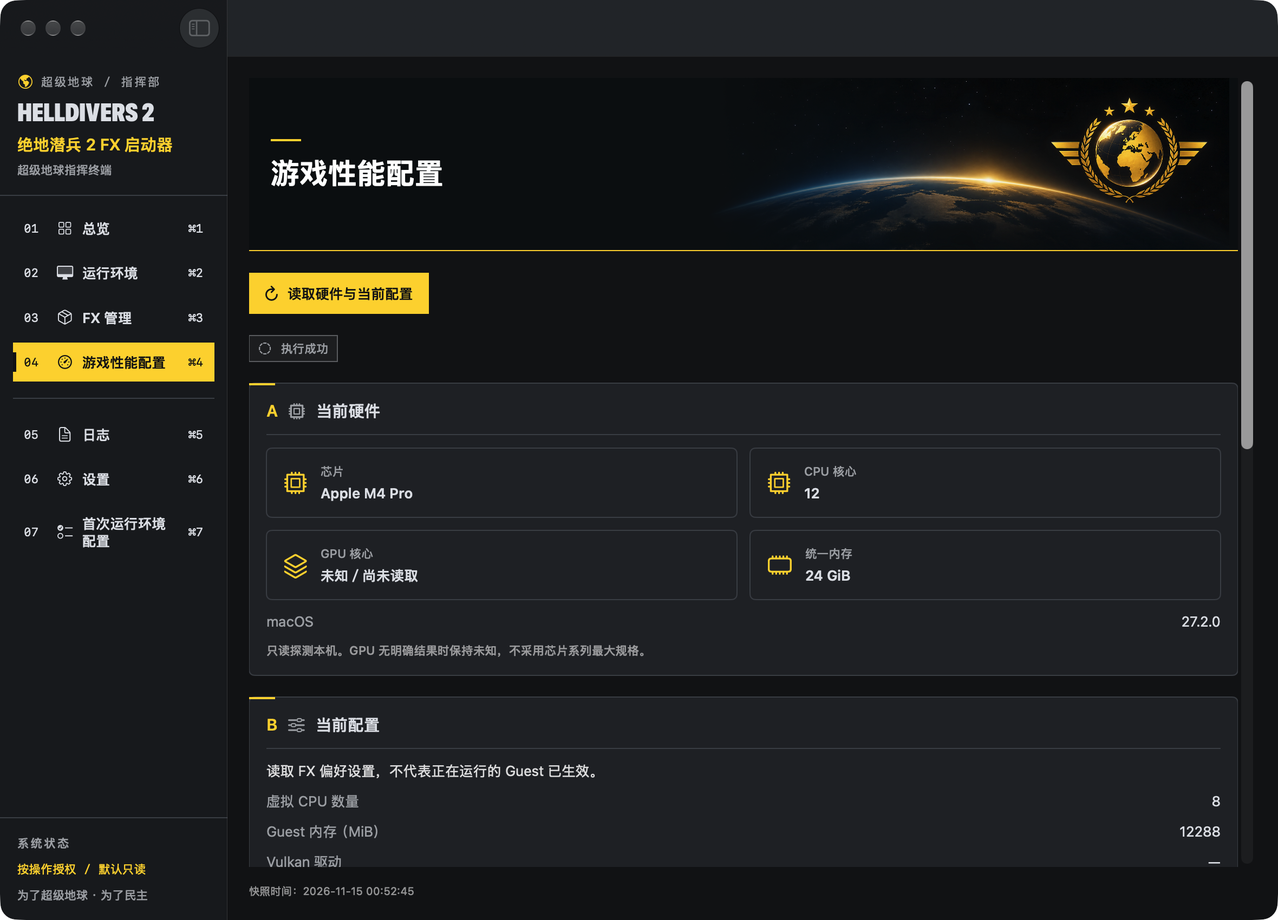
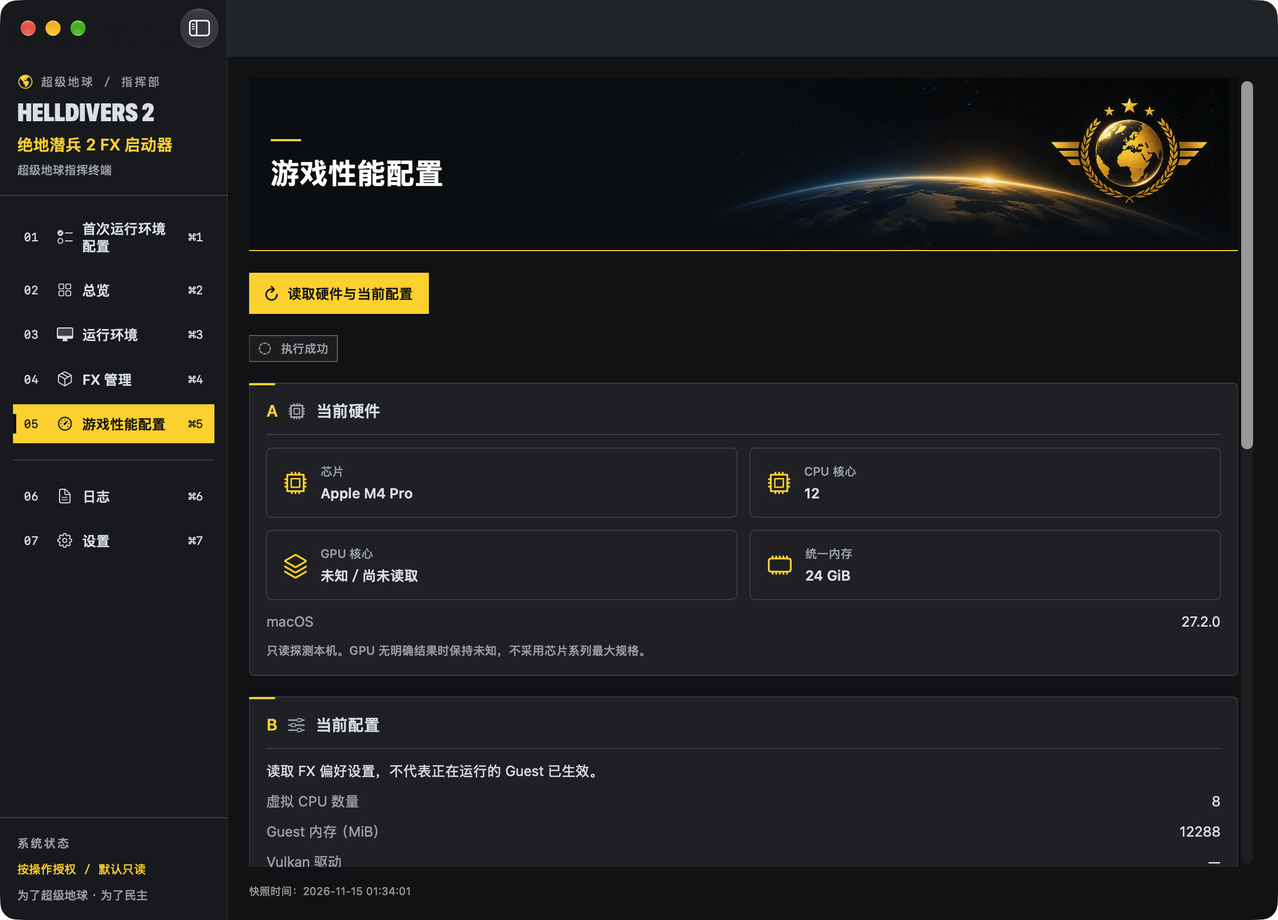
ui: redesign tactical workflows and reorder navigation

Changed region(s): [[0.0, 0.2182, 0.1856, 0.5924], [0.0309, 0.0, 0.0619, 0.0624]]

diff --git a/native-app/Views/FirstRunSetupView.swift b/native-app/Views/FirstRunSetupView.swift
@@ -4,6 +4,7 @@ struct FirstRunSetupView: View {
     @ObservedObject var state: AppState
     @ObservedObject var tasks: TaskManager
     @ObservedObject var credentials: SessionCredentialManager
+    @Environment(\.colorScheme) private var scheme
     @State private var authorize = false
     @State private var fexAction: String?
     @State private var recoverID: UUID?
@@ -49,54 +50,66 @@ struct FirstRunSetupView: View {
         return state.firstRunState == .NotChecked ? "ui.workflow.idle" : "ui.setup.state." + state.firstRunState.rawValue
     }
     private var welcomeContent: some View {
-        VStack(alignment: .leading, spacing: 20) {
+        VStack(alignment: .leading, spacing: 16) {
             TacticalFlowMark()
-            Text(state.t("ui.art.welcomeTitle")).font(.system(size: 25, weight: .bold))
-            Text(state.t("ui.art.welcomeDetail")).foregroundStyle(.secondary)
-            TacticalPanel(number: "", title: state.t("ui.workflow.environment"), symbol: "checkmark.shield") {
-                TacticalInfoRow(title: "FX", value: state.t(state.fxSelection.selected != nil ? "ui.219" : "ui.210"))
-                TacticalInfoRow(title: "SteamOS", value: state.t(state.credentials.guestBoot != nil ? "ui.credentials.status.connected" : "ui.credentials.status.idle"))
-                TacticalInfoRow(title: state.t("ui.135"), value: state.t(setupStatusKey))
-            }
-            TacticalPanel(number: "", title: state.t("ui.workflow.configure"), symbol: "wrench.and.screwdriver") {
+            Text(state.t("ui.art.welcomeTitle"))
+                .font(.system(size: 29, weight: .heavy)).fixedSize(horizontal: false, vertical: true)
+            Text(state.t("ui.art.welcomeDetail")).font(.body).foregroundStyle(.secondary)
+                .fixedSize(horizontal: false, vertical: true)
+            HStack(alignment: .center, spacing: 12) {
+                Image(systemName: "checkmark.shield").font(.title2).foregroundStyle(TacticalColors(scheme: scheme).accent).accessibilityHidden(true)
+                VStack(alignment: .leading, spacing: 5) {
+                    Text(state.t("ui.workflow.environment")).font(.headline)
+                    VStack(alignment: .leading, spacing: 3) {
+                        HStack(alignment: .top) { Text(verbatim: "FX"); Text(state.t(state.fxSelection.selected != nil ? "ui.219" : "ui.210")) }
+                        HStack(alignment: .top) { Text(verbatim: "SteamOS"); Text(state.t(state.credentials.guestBoot != nil ? "ui.credentials.status.connected" : "ui.credentials.status.idle")) }
+                    }.font(.caption).foregroundStyle(.secondary).fixedSize(horizontal: false, vertical: true)
+                    Text(state.t(setupStatusKey)).font(.caption).foregroundStyle(.secondary)
+                }
+            }.padding(.vertical, 4)
+            VStack(alignment: .leading, spacing: 0) {
+                Text(state.t("ui.workflow.configure")).font(.headline).padding(.bottom, 8)
                 TacticalFlowStep(number: "01", title: state.t("ui.setup.fx"), symbol: "shippingbox")
                 TacticalFlowStep(number: "02", title: state.t("ui.setup.detect"), symbol: "magnifyingglass")
                 TacticalFlowStep(number: "03", title: state.t("ui.setup.deploy"), symbol: "wrench.and.screwdriver")
                 TacticalFlowStep(number: "04", title: state.t("ui.workflow.result"), symbol: "checkmark.shield")
-                TacticalButton(title: state.t("ui.workflow.begin"), symbol: "play.fill", primary: true, disabledReason: tasks.busy ? state.t("ui.014") : nil, fillsWidth: true) {
-                    state.startEnvironmentWorkflow(launchGame: false)
-                }
             }
-            TacticalFlowMark()
+            TacticalButton(title: state.t("ui.workflow.begin"), symbol: "play.fill", primary: true, disabledReason: tasks.busy ? state.t("ui.014") : nil, fillsWidth: true) {
+                state.startEnvironmentWorkflow(launchGame: false)
+            }
             EnvironmentWorkflowProgressView(state: state, tasks: tasks)
+            TacticalFlowFooter()
         }
     }
     private func completionContent(_ plan: DeploymentPlan) -> some View {
-        VStack(alignment: .leading, spacing: 20) {
+        VStack(alignment: .leading, spacing: 16) {
             TacticalFlowMark()
-            Text(state.t("ui.art.completedTitle")).font(TacticalTypography.module)
-            Text(state.t("ui.setup.acceptance")).foregroundStyle(.secondary)
-            TacticalPanel(number: "", title: state.t("ui.workflow.environment"), symbol: "checkmark.shield") {
-                ForEach(plan.operations) { operation in
-                    TacticalInfoRow(title: state.t("ui.setup.component." + operation.component), value: state.t(statusKey(operation)))
+            HStack(alignment: .center, spacing: 16) {
+                Image(systemName: "checkmark.seal.fill").font(.system(size: 48)).foregroundStyle(TacticalColors(scheme: scheme).accent).accessibilityHidden(true)
+                Text(state.t("ui.art.completedTitle")).font(.system(size: 27, weight: .heavy))
+                    .fixedSize(horizontal: false, vertical: true)
+            }
+            Text(state.t("ui.setup.acceptance")).foregroundStyle(.secondary).fixedSize(horizontal: false, vertical: true)
+            VStack(alignment: .leading, spacing: 0) {
+                Text(state.t("ui.workflow.environment")).font(.headline).padding(.bottom, 9)
+                ForEach(Array(plan.operations.enumerated()), id: \.element.id) { index, operation in
+                    HStack(spacing: 10) {
+                        Text(String(format: "%02d", index + 1)).font(TacticalTypography.log).foregroundStyle(TacticalColors(scheme: scheme).accent).accessibilityHidden(true)
+                        Text(state.t("ui.setup.component." + operation.component)).fixedSize(horizontal: false, vertical: true)
+                        Spacer(minLength: 8)
+                        Text(state.t(statusKey(operation))).font(.caption.weight(.semibold)).multilineTextAlignment(.trailing)
+                    }.padding(.vertical, 7)
+                    TacticalDivider()
                 }
             }
-            ViewThatFits(in: .horizontal) {
-                HStack(spacing: 10) { completionActions }
-                VStack(alignment: .leading, spacing: 10) { completionActions }
-            }
-            TacticalFlowMark()
-        }
-    }
-    private var completionActions: some View {
-        Group {
-            TacticalButton(title: state.t("ui.176"), symbol: "play.fill", primary: true, disabledReason: tasks.busy ? state.t("ui.014") : nil) {
+            TacticalButton(title: state.t("ui.176"), symbol: "play.fill", primary: true, disabledReason: tasks.busy ? state.t("ui.014") : nil, fillsWidth: true) {
                 state.selection = .dashboard
                 state.perform(.game)
             }
             TacticalButton(title: state.t("ui.workflow.retry"), symbol: "arrow.clockwise", primary: false, disabledReason: tasks.busy ? state.t("ui.014") : nil) {
                 state.startEnvironmentWorkflow(launchGame: false)
             }
+            TacticalFlowFooter()
         }
     }
     var body: some View {
@@ -267,6 +280,7 @@ struct FirstRunSetupView: View {
 struct EnvironmentWorkflowProgressView: View {
     @ObservedObject var state: AppState
     @ObservedObject var tasks: TaskManager
+    @Environment(\.colorScheme) private var scheme
     var showIdle = false
     var showStepsInline = false
     var returnToDashboard: (() -> Void)? = nil
@@ -275,8 +289,15 @@ struct EnvironmentWorkflowProgressView: View {
     private var stepRows: some View {
         ForEach(Array([EnvironmentWorkflowPhase.startingFX, .connecting, .detecting, .deploying, .verifying, .launching].prefix(workflow.totalSteps).enumerated()), id: \.offset) { index, phase in
             let stepKeys = ["ui.setup.fx", "ui.setup.connect", "ui.setup.detect", "ui.setup.deploy", "ui.workflow.result", "ui.176"]
-            Label(state.t(stepKeys[index]), systemImage: index < workflow.completedSteps ? "checkmark.circle" : workflow.active && phase == workflow.phase ? "arrow.right.circle" : "circle.dashed")
-                .font(TacticalTypography.caption)
+            let done = index < workflow.completedSteps
+            let current = workflow.active && phase == workflow.phase
+            HStack(spacing: 10) {
+                Text(String(format: "%02d", index + 1)).font(TacticalTypography.log).foregroundStyle(.secondary).accessibilityHidden(true)
+                Label(state.t(stepKeys[index]), systemImage: done ? "checkmark.circle.fill" : current ? "arrow.right.circle.fill" : "circle.dashed")
+                    .foregroundStyle(done ? TacticalColors(scheme: scheme).success : current ? TacticalColors(scheme: scheme).accent : Color.secondary)
+                    .font(TacticalTypography.caption.weight(current ? .bold : .regular))
+                Spacer(minLength: 0)
+            }.padding(.vertical, 5)
         }
     }
     private var stepDetails: some View {
@@ -287,12 +308,13 @@ struct EnvironmentWorkflowProgressView: View {
             Text(verbatim: "ID: " + workflow.taskID.uuidString).font(.caption.monospaced()).textSelection(.enabled)
         }
     }
-    var body: some View {
-        if showIdle || workflow.phase != .idle {
-            TacticalPanel(number: "", title: state.t(workflow.launchesGame ? "ui.176" : "ui.workflow.result"), symbol: workflow.launchesGame ? "play.rectangle" : "gearshape.2") {
+    private var workflowContent: some View {
+        VStack(alignment: .leading, spacing: 12) {
                 HStack {
-                    Text(workflow.phase == .launching ? state.launchSession.current.title(state.languageCode) :
-                         state.t(workflow.launchesGame && workflow.phase == .failed ? "ui.179" : workflow.phase.titleKey))
+                    if !showStepsInline || workflow.phase == .launching {
+                        Text(workflow.phase == .launching ? state.launchSession.current.title(state.languageCode) :
+                             state.t(workflow.launchesGame && workflow.phase == .failed ? "ui.179" : workflow.phase.titleKey))
+                    }
                     Spacer()
                     if workflow.showsProgress { Text("\(workflow.completedSteps) / \(workflow.totalSteps)").monospacedDigit() }
                 }
@@ -303,7 +325,7 @@ struct EnvironmentWorkflowProgressView: View {
                     }
                 }
                 if workflow.active {
-                    ProgressView().tint(.yellow)
+                    ProgressView().tint(TacticalColors(scheme: scheme).accent)
                 }
                 if let failure = workflow.failure {
                     Text(failure.code == "ARTIFACT_UNAPPROVED" && failure.details["component"]?.text == "fex"
@@ -339,6 +361,29 @@ struct EnvironmentWorkflowProgressView: View {
                     Button(state.t(workflow.launchesGame ? "ui.176" : "ui.workflow.retry")) {
                         state.startEnvironmentWorkflow(launchGame: workflow.launchesGame)
                     }.disabled(tasks.busy)
+                }
+        }.frame(maxWidth: .infinity, alignment: .leading)
+    }
+    var body: some View {
+        if showIdle || workflow.phase != .idle {
+            Group {
+                if showStepsInline {
+                    VStack(alignment: .leading, spacing: 18) {
+                        HStack(spacing: 12) {
+                            Image(systemName: "scope").font(.system(size: 32)).foregroundStyle(TacticalColors(scheme: scheme).accent).accessibilityHidden(true)
+                            Text(state.t(workflow.phase.titleKey)).font(.system(size: 25, weight: .heavy))
+                                .fixedSize(horizontal: false, vertical: true)
+                        }
+                        TacticalDivider()
+                        workflowContent
+                    }
+                    .padding(18)
+                    .background(.primary.opacity(0.035))
+                    .overlay(alignment: .leading) { Rectangle().fill(TacticalColors(scheme: scheme).accent).frame(width: 3) }
+                } else {
+                    TacticalPanel(number: "", title: state.t(workflow.launchesGame ? "ui.176" : "ui.workflow.result"), symbol: workflow.launchesGame ? "play.rectangle" : "gearshape.2") {
+                        workflowContent
+                    }
                 }
             }
             .sheet(isPresented: Binding(get: { state.pendingFEXApproval != nil && !tasks.busy }, set: { if !$0 { state.cancelFEXApproval() } })) {

diff --git a/native-app/App/DesignSystem/TacticalComponents.swift b/native-app/App/DesignSystem/TacticalComponents.swift
@@ -336,26 +336,85 @@ struct TacticalFlowArtwork<Content: View>: View {
     let asset: String
     @ViewBuilder let content: Content
     @State private var availableWidth: CGFloat = 0
+    @Environment(\.colorScheme) private var scheme
     var body: some View {
-        HStack(alignment: .top, spacing: 20) {
+        let c = TacticalColors(scheme: scheme)
+        let showArt = availableWidth >= 860
+        let artWidth = min(420, max(320, availableWidth * 0.36))
+        HStack(alignment: .top, spacing: 24) {
             content.fixedSize(horizontal: false, vertical: true).frame(maxWidth: .infinity, alignment: .topLeading)
-            if availableWidth >= 860 {
-                Image(asset)
-                    .resizable().scaledToFit()
-                    .frame(width: 320)
-                    .overlay(RoundedRectangle(cornerRadius: 6).stroke(Color.gray.opacity(0.4)))
-                    .accessibilityHidden(true)
-                    .allowsHitTesting(false)
+            if showArt {
+                VStack(alignment: .trailing, spacing: 8) {
+                    HStack(spacing: 5) {
+                        Rectangle().fill(c.accent).frame(width: 40, height: 3)
+                        Rectangle().fill(c.line).frame(height: 1)
+                        Image(systemName: "star.fill").font(.system(size: 9)).foregroundStyle(c.accent)
+                    }
+                    Image(asset).resizable().scaledToFit().frame(width: artWidth)
+                        .overlay(RoundedRectangle(cornerRadius: 4).stroke(c.line, lineWidth: 1))
+                    TacticalHazardBand().frame(width: 106, height: 9)
+                }
+                .frame(width: artWidth)
+                .accessibilityHidden(true).allowsHitTesting(false)
             }
         }
+        .padding(.horizontal, 18).padding(.vertical, 20)
         .frame(maxWidth: .infinity, alignment: .leading)
         .background {
-            GeometryReader { geometry in
-                Color.clear
+            ZStack {
+                LinearGradient(colors: [c.panel.opacity(0.65), c.background, c.panel.opacity(0.3)], startPoint: .topLeading, endPoint: .bottomTrailing)
+                TacticalFlowBackdrop().foregroundStyle(c.accent.opacity(scheme == .dark ? 0.08 : 0.11))
+                GeometryReader { geometry in
+                    Color.clear
                     .onAppear { availableWidth = geometry.size.width }
                     .onChange(of: geometry.size.width) { _, width in availableWidth = width }
+                }
             }
         }
+        .overlay(alignment: .topLeading) { Rectangle().fill(c.accent).frame(width: 58, height: 3) }
+    }
+}
+
+/// Background graphics are decorative and carry no state or interaction.
+private struct TacticalFlowBackdrop: View {
+    var body: some View {
+        Canvas { context, size in
+            for index in 0..<7 {
+                let x = CGFloat(index) * 105
+                var path = Path(); path.move(to: CGPoint(x: x, y: size.height)); path.addLine(to: CGPoint(x: x + size.height * 0.55, y: 0))
+                context.stroke(path, with: .foreground, lineWidth: 1)
+            }
+        }.accessibilityHidden(true).allowsHitTesting(false)
+    }
+}
+
+struct TacticalHazardBand: View {
+    @Environment(\.colorScheme) private var scheme
+    var body: some View {
+        Canvas { context, size in
+            let color = TacticalColors(scheme: scheme).accent
+            for index in 0..<18 {
+                let x = CGFloat(index) * 16
+                var path = Path(); path.move(to: CGPoint(x: x, y: size.height)); path.addLine(to: CGPoint(x: x + 6, y: 0)); path.addLine(to: CGPoint(x: x + 13, y: 0)); path.addLine(to: CGPoint(x: x + 7, y: size.height)); path.closeSubpath()
+                context.fill(path, with: .color(color))
+            }
+        }.clipped().accessibilityHidden(true).allowsHitTesting(false)
+    }
+}
+
+struct TacticalFlowFooter: View {
+    @Environment(\.colorScheme) private var scheme
+    var body: some View {
+        let c = TacticalColors(scheme: scheme)
+        HStack(alignment: .bottom, spacing: 12) {
+            VStack(alignment: .leading, spacing: 5) {
+                TacticalHazardBand().frame(width: 132, height: 13)
+                Rectangle().fill(c.accent).frame(width: 92, height: 3)
+                Rectangle().fill(c.line).frame(width: 148, height: 1)
+            }
+            Image(systemName: "shield.lefthalf.filled").font(.system(size: 23, weight: .bold)).foregroundStyle(c.accent)
+            Rectangle().fill(c.line).frame(maxWidth: .infinity).frame(height: 1)
+        }.padding(.top, 12).accessibilityHidden(true).allowsHitTesting(false)
     }
 }
 

diff --git a/native-app/Views/DashboardView.swift b/native-app/Views/DashboardView.swift
@@ -27,7 +27,7 @@ struct DashboardView: View {
                     TacticalFlowMark()
                     EnvironmentWorkflowProgressView(state: state, tasks: tasks, showStepsInline: true, returnToDashboard: { showingOverview = true })
                     TacticalButton(title: state.t("ui.092"), symbol: "square.grid.2x2", primary: false) { showingOverview = true }
-                    TacticalFlowMark()
+                    TacticalFlowFooter()
                 }
             }
             if let error = state.error { TacticalWarningBanner(text: error.message(state.languageCode) + " · " + error.code, isError: true) }

diff --git a/native-app/Models/Navigation.swift b/native-app/Models/Navigation.swift
@@ -1,7 +1,7 @@
 import SwiftUI
 
 enum Page: String, CaseIterable, Identifiable {
-    case dashboard, environment, fx, performance, logs, settings, setup
+    case setup, dashboard, environment, fx, performance, logs, settings
     var id: String { rawValue }
     var menuTitle: String { title("en") }
     var symbol: String {

diff --git a/docs/UI_DESIGN_GUIDELINES.md b/docs/UI_DESIGN_GUIDELINES.md
@@ -6,9 +6,15 @@ Read this document before UI development. Reuse the implementation in `native-ap
 
 Keep the dark HELLDIVERS 2 tactical identity, yellow emphasis for primary actions, clear information hierarchy and restrained decoration. Use `TacticalPageHeader` for secondary-page titles and the existing dashboard presentation for the overview. Keep action controls in content areas, aligned consistently, and use adaptive layouts for narrow windows and long translations. Use `TacticalPanel`, metrics and status badges for related evidence; distinguish unchecked, checking, success, warning, failure and uncertainty without inventing health. Approved reference images guide composition and tactical details, while actual service evidence determines all text, actions and states. Reuse `TacticalFlowMark` and `TacticalFlowStep` for restrained numbered and angled accents.
 
+## Navigation and workflow composition
+
+The sidebar order is first-run setup, dashboard, environment, FX manager, game performance, logs and settings. Derive numbering and Command shortcuts from this shared order. Preserve dashboard as the default and do not restart configuration for existing users.
+
+Compose welcome, verified completion and launch preparation as related command-terminal scenes, not generic stacked cards next to an isolated poster. Use a clear primary heading, evidence-bound status, a prominent real action, the complete large right-hand artwork and reusable tactical background and lower-left hazard detail. Distinguish pending, active, completed, failed and cancelled from the actual workflow state. Reference images guide visual hierarchy only; do not introduce fictional states or actions.
+
 ## Artwork and attribution
 
-Keep the Dashboard hero unchanged unless explicitly requested. The shared `TacticalPageHeader` starfield, Earth sunrise, Super Earth emblem, left title and yellow divider are protected; do not replace or cover them with new illustrations. Use `TacticalFlowArtwork` for the first-run welcome, setup completion and game-launch preparation flows: it places artwork at a shared right-hand width and inset, hides it when controls need the space, and follows each source's aspect ratio without large empty bands. Different source proportions require different heights to show complete works without cropping. Preserve original artwork and aspect ratio; never crop, recolor or modify it without authorization. Do not add permanent artwork to the environment, performance, logs or FX-management pages. Decoration must not obscure text, compress controls or block actions. Record third-party authorship and permission, and visually review substantial changes with real App screenshots.
+Keep the Dashboard hero unchanged unless explicitly requested. The shared `TacticalPageHeader` starfield, Earth sunrise, Super Earth emblem, left title and yellow divider are protected; do not replace or cover them with new illustrations. Use `TacticalFlowArtwork` for the first-run welcome, setup completion and game-launch preparation flows: it places artwork at a shared adaptive right-hand width and inset, hides it when controls need the space, and follows each source's aspect ratio without large empty bands. Different source proportions require different heights to show complete works without cropping. Preserve original artwork and aspect ratio; never crop, recolor or modify it without authorization. Do not add permanent artwork to the environment, performance, logs or FX-management pages. Decoration must not obscure text, compress controls or block actions. Record third-party authorship and permission, and visually review substantial changes with real App screenshots.
 
[1 lines of base64/hex data omitted]
 

diff --git a/AGENTS.md b/AGENTS.md
@@ -1,7 +1,7 @@
 # HD2FXNative development rules
 
 Instruction version: **v1.2.30** · Updated: **2026-11-15**.
-Change: permit patch packages to use updated archive rules when older clients cannot validate them. Instruction version is independent of App version.
+Change: support setup-first navigation and patch archive compatibility guidance. Instruction version is independent of App version.
 
 ## Authority and task lifecycle
 
@@ -59,4 +59,6 @@ All subsequent UI work must first follow `docs/UI_DESIGN_GUIDELINES.md`: read th
 - Review changed pages for visual consistency, action placement and duplication, clipping, loading, errors and accessibility. For ordinary visual iterations inspect Chinese and English in light/dark and wide/narrow layouts; expand review when localization or other languages are affected. Maintain automated checks and all ten languages. Provide real App screenshots for substantial visual changes; routine code changes do not require screenshots. Clearly label fixture previews and never present them as live success.
 
 - Protect the Dashboard hero and the shared secondary-page starfield, sunrise and Super Earth emblem header; never replace or cover them with new illustrations. Restrict MOTR7 artwork to the first-run welcome, verified setup completion and game-launch preparation flows. Place it on the right using the shared adaptive container, consistent size and spacing; hide it when room is insufficient for controls. Preserve the whole original image and its aspect ratio. Record third-party authorship and permission. Workflow success and progress must come from actual service evidence; never fabricate them for presentation. Artwork must not reduce readability or impede actions. Review every substantial visual change with real App screenshots.
+- Keep sidebar order: first-run setup, dashboard, environment, FX, performance, logs, settings; derive visible numbers and Command shortcuts from the same order while keeping the dashboard as the ordinary default.
+- Build the three artwork flows as cohesive command-terminal compositions with reusable lower-left tactical decoration, clear evidence and action hierarchy, and full-size right-hand artwork; do not settle for unrelated standard cards beside a poster.
 - User-facing product names are `绝地潜兵 2 FX 启动器` and `HELLDIVERS 2 FX Launcher`; localize product naming consistently and reserve `HD2FXNative` for engineering. Treat approved reference images as visual guidance, not evidence of functionality or state. Reuse tactical decoration components, avoid isolated miniature posters and meaningless image padding, and preserve complete authorized artwork.

diff --git a/docs/images/README.md b/docs/images/README.md
@@ -74,3 +74,7 @@ The fourteen README page images were recaptured from isolated Debug build 202611
 2026-11-15 merge review: seven idle pages and the software-update viewport per language were recaptured and visually reviewed from the 1.0.2 / 2026111501 isolated Debug candidate (base `afc1158`, integrating main `b967ccd`). Performance screenshots contain read-only hardware and preference values. Setup completion and game launch remain unverified; no FX, SSH, Guest or game action was performed.
 
 2026-11-15 合并审核：中英文各七页和软件更新视口均从 1.0.2 / 2026111501 隔离 Debug 候选重拍并审核（基于 `afc1158`，整合 main `b967ccd`）。性能截图含只读硬件和偏好值；真实配置完成及游戏启动未验证，采集未执行 FX、SSH、Guest 或游戏操作。
+
+2026-11-15 redesign review: seven idle pages per language were visually reviewed after the setup-first sidebar change; the two welcome pages were recaptured after the final status-label adjustment. Build 1.0.2 / 2026111501, dirty source based on `f862623`. Original window pixels, no FX/SSH/Guest/game action. Separately marked DEBUG fixture previews are in `reviews/motr7-redesign-20261115` and do not establish real setup or launch success.
+
+2026-11-15 重新设计审核：中英文七个空闲页面已按新侧边栏顺序审核；欢迎页在状态标签最后调整后重拍。构建 1.0.2 / 2026111501，基于 `f862623` 的未提交源码。保留窗口原始像素，未执行 FX、SSH、Guest 或游戏操作；模拟完成及启动预览单独标注，不代表真实成功。

diff --git a/docs/images/reviews/motr7-redesign-20261115/README.md b/docs/images/reviews/motr7-redesign-20261115/README.md
@@ -1,0 +1,10 @@
+# MOTR7 redesign review captures
+
+Debug 1.0.2 build 2026111501, dirty source based on f862623; screenshots retain original window pixels. Welcome images show real idle App windows with isolated preferences. Completion and launch images are DEBUG-only fixture previews, marked on-screen and with interaction disabled; they do not demonstrate live setup or game success. No FX, SSH, Guest, game or updater action was initiated. The menu shows the updated navigation order.
+
[6 lines of base64/hex data omitted]

diff --git a/README.md b/README.md
@@ -38,7 +38,7 @@ The Dashboard retains five cards: FX, virtual machine, Steam, EAC and multiplaye
 
 ### Features
 
-Setup and launch workflow artwork is by **MOTR7**, used with the artist’s permission as supplied by the user. The Dashboard hero and shared page header are unchanged.
+Setup and launch workflow artwork is by **MOTR7**, used with the artist’s permission as supplied by the user. The Dashboard hero and shared page header are unchanged. The development candidate places First-Run Setup first in the sidebar (⌘1), while Dashboard remains the default (⌘2).
 
 **Interface:** Environment, FX Manager and Logs use a shared content-area snapshot refresh. The FX details view reuses inspection evidence to avoid repeated hashing during redraw.
 

diff --git a/CHANGELOG.md b/CHANGELOG.md
@@ -10,6 +10,8 @@ v1.0.2 (2026111501) was published on 2026-11-15. Fresh SteamOS deployment, singl
 
 - Report update archive safety errors and installation permissions with specific messages and diagnostic details.
 
+- Redesign the setup and launch-preparation scenes as tactical workflow layouts; move First-Run Setup to sidebar position 01 and synchronize Command shortcuts. Dashboard remains the default.
+
 - Simplify software updates to one download and install action with live progress and retry.
 
 - Added an isolated, signed GitHub pre-release update channel for acceptance testing. Appearance preferences now persist across App restarts.
